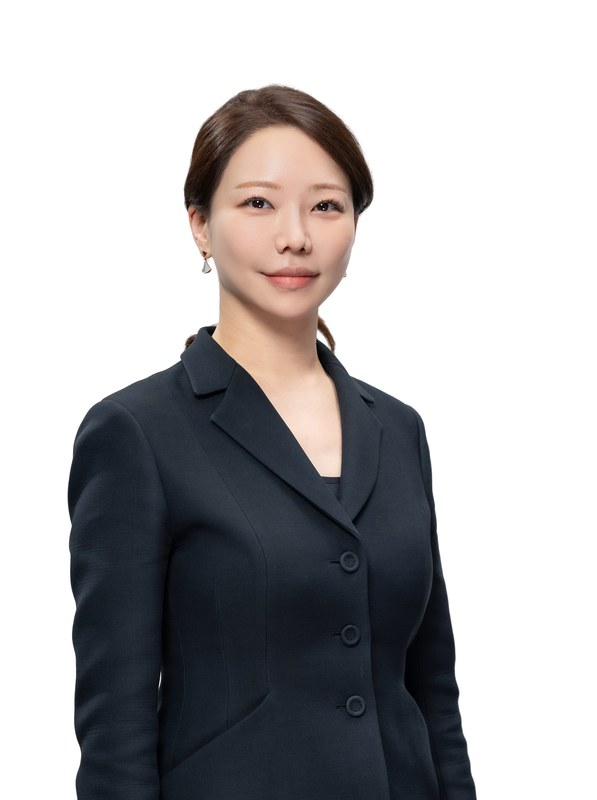
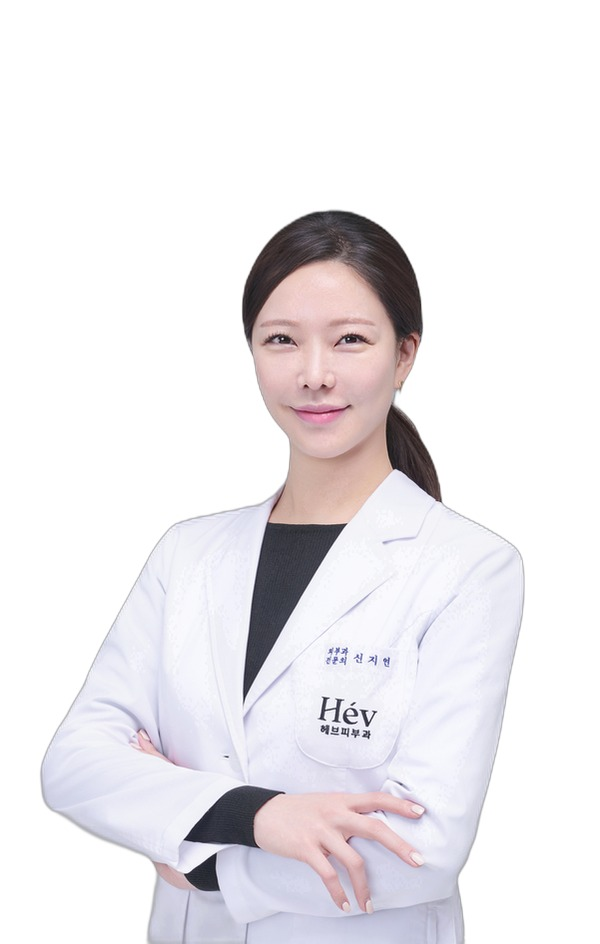
모바일 hero 영역 단축 + 김홍석/신지연 카드 썸네일 교체 + 헤더 로고 확대
- 모바일 .member-hero-photo img max-height 580 → 520px (배경 길이 축소)
- 김홍석/신지연 카드 썸네일을 새 1번 누끼본으로 재생성
- 헤더 .logo-akd-img 데스크탑 42→48px, 모바일 36→42px (헤더 높이 64px 유지)
- park-saemi OG 이미지 복원
- 캐시 버전 r → t

diff --git a/index.html b/index.html
@@ -23,7 +23,7 @@
   <link href="https://fonts.googleapis.com/css2?family=Noto+Sans+KR:wght@300;400;500;600;700;800&display=swap" rel="stylesheet">
   <link rel="stylesheet" href="https://unpkg.com/leaflet@1.9.4/dist/leaflet.css" />
   <link rel="stylesheet" href="https://cdnjs.cloudflare.com/ajax/libs/font-awesome/6.5.1/css/all.min.css" />
-  <link rel="stylesheet" href="css/style.css?v=20260501r">
+  <link rel="stylesheet" href="css/style.css?v=20260501t">
 </head>
 <body>
   <!-- Navigation -->
@@ -57,6 +57,6 @@
   </footer>
 
   <script src="https://unpkg.com/leaflet@1.9.4/dist/leaflet.js"></script>
-  <script src="js/app.js?v=20260501r"></script>
+  <script src="js/app.js?v=20260501t"></script>
 </body>
 </html>

diff --git a/css/style.css b/css/style.css
@@ -129,7 +129,7 @@ ul, ol {
 }
 
 .logo-akd-img {
-  height: 42px;
+  height: 48px;
   width: auto;
   object-fit: contain;
 }
@@ -2021,7 +2021,7 @@ body[data-page="treatments"] .page-header {
   }
 
   .logo-akd-img {
-    height: 36px;
+    height: 42px;
   }
 
   /* Home */
@@ -2141,7 +2141,7 @@ body[data-page="treatments"] .page-header {
   }
 
   .member-hero-photo img {
-    max-height: 580px;
+    max-height: 520px;
     width: 100%;
     object-position: bottom center;
   }
